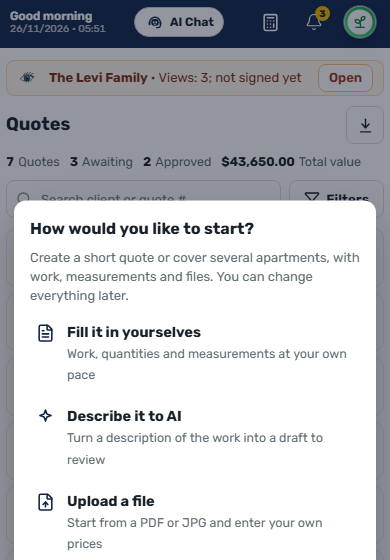
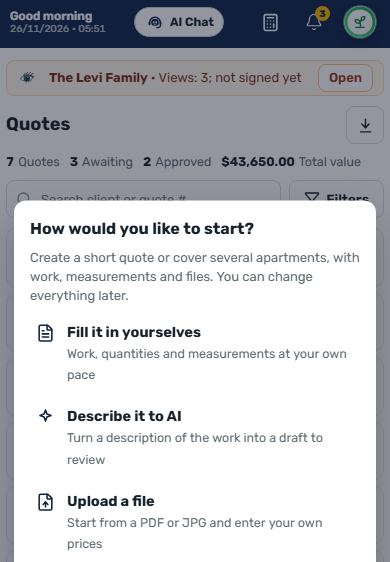
growthfix1126: the step screens end at the same row in Hebrew and English (after "Upload a file", after item 2's qty row, after the total)
Owner console 2026-11-26 (typed): the fix release line. Agent aeab1d73ef58165d8 found the HE / EN crops ended at different rows (law 49).

diff --git a/src/pages/MarketingPages.jsx b/src/pages/MarketingPages.jsx
@@ -22,7 +22,7 @@ const MARKETING_PATHS = Object.freeze({
 });
 const UPDATED = '26/11/2026';
 // the step screens, each cropped at a text-free row (no line cut at the bottom edge - LIVE check 26/11): their heights at 390 px wide
-const SHOT_H = { he: [557, 578, 555], en: [560, 554, 560] };
+const SHOT_H = { he: [524, 578, 618], en: [562, 597, 566] }; // HE and EN end at the same row: after "Upload a file", after item 2's qty row, after the total
 
 const COMPARE = {
   he: {
